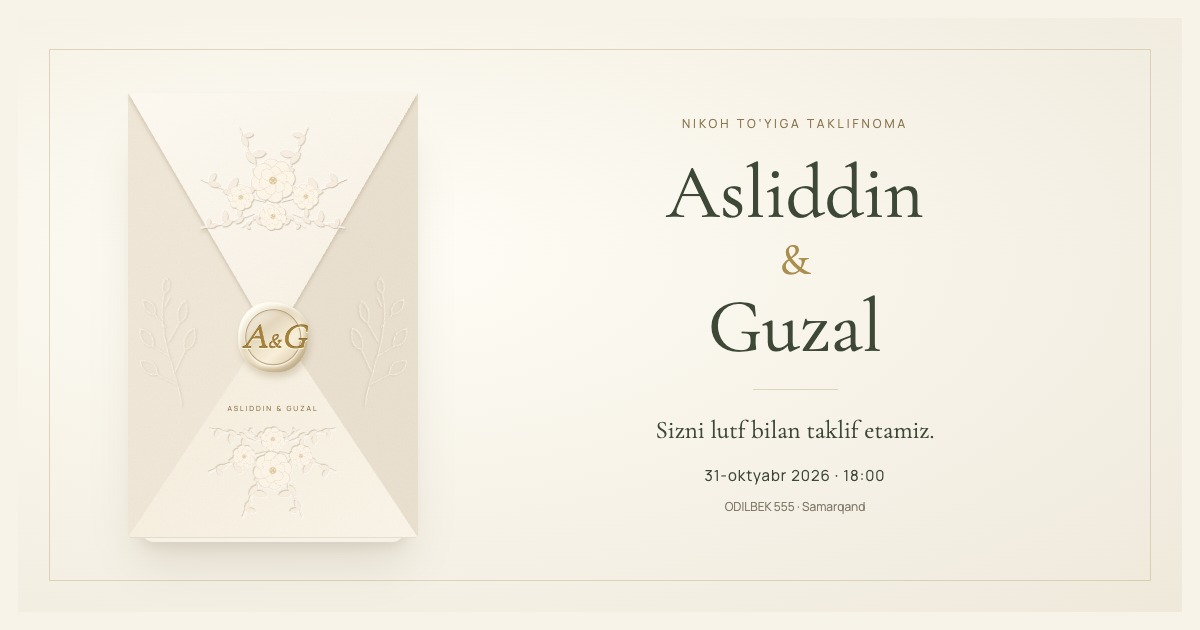
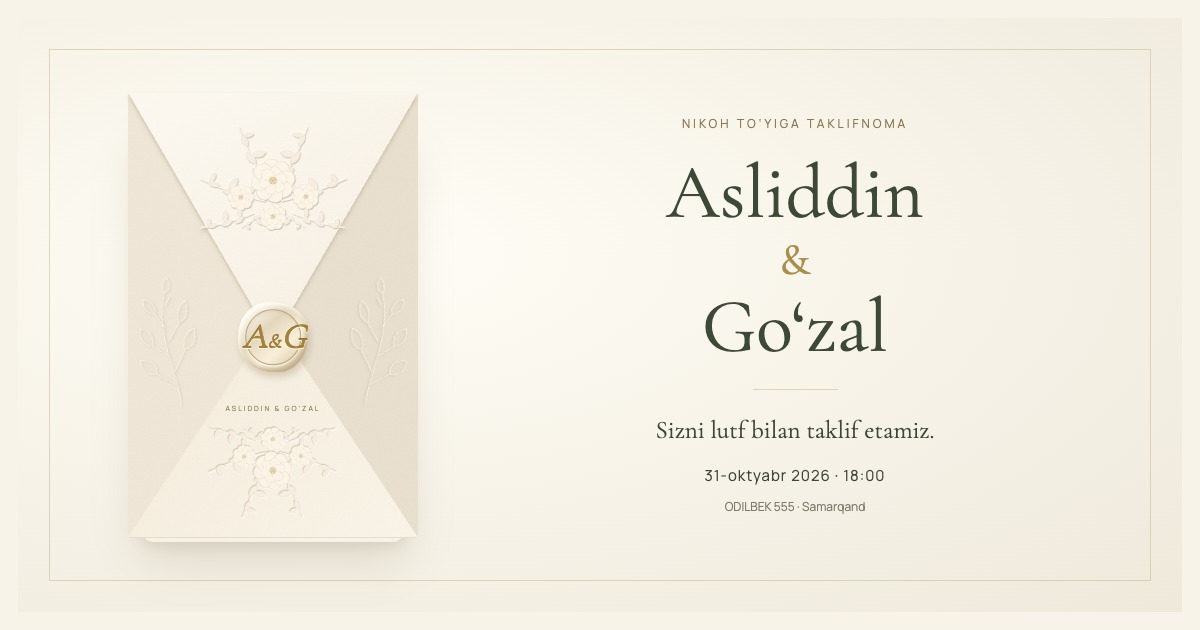
name fixed

Changed region(s): [[0.5858, 0.4524, 0.74, 0.573], [0.185, 0.6333, 0.2467, 0.6635]]

diff --git a/templates/invitation/home.html b/templates/invitation/home.html
@@ -5,21 +5,21 @@
   <meta charset="utf-8">
   <meta name="viewport" content="width=device-width, initial-scale=1">
   <meta name="theme-color" content="#f7f4ec">
-  <title>Asliddin & Guzal — Nikoh to‘yiga taklifnoma</title>
-  <meta name="description" content="Asliddin va Guzalning nikoh to‘yiga lutfan taklif etamiz. 31-oktyabr 2026, soat 18:00. ODILBEK 555 to‘yxonasi, Mirbozor, Samarqand.">
-  <meta property="og:title" content="Asliddin & Guzal — Nikoh to‘yiga taklifnoma">
+  <title>Asliddin & Go‘zal — Nikoh to‘yiga taklifnoma</title>
+  <meta name="description" content="Asliddin va Go‘zalning nikoh to‘yiga lutfan taklif etamiz. 31-oktyabr 2026, soat 18:00. ODILBEK 555 to‘yxonasi, Mirbozor, Samarqand.">
+  <meta property="og:title" content="Asliddin & Go‘zal — Nikoh to‘yiga taklifnoma">
   <meta property="og:description" content="Sizni nikoh to‘yimizga lutf bilan taklif etamiz. 31-oktyabr 2026 · 18:00. ODILBEK 555, Samarqand.">
   <meta property="og:type" content="website">
-  <meta property="og:site_name" content="Asliddin & Guzal · 31.10.2026">
+  <meta property="og:site_name" content="Asliddin & Go‘zal · 31.10.2026">
   <meta property="og:locale" content="uz_UZ">
   <meta property="og:url" content="{{ share_url }}">
   <meta property="og:image" content="{{ share_image_url }}">
   <meta property="og:image:type" content="image/jpeg">
   <meta property="og:image:width" content="1200">
   <meta property="og:image:height" content="630">
-  <meta property="og:image:alt" content="Gulli konvert va A&G muhri. Asliddin va Guzalning nikoh to‘yi — 31-oktyabr 2026, soat 18:00.">
+  <meta property="og:image:alt" content="Gulli konvert va A&G muhri. Asliddin va Go‘zalning nikoh to‘yi — 31-oktyabr 2026, soat 18:00.">
   <meta name="twitter:card" content="summary_large_image">
-  <meta name="twitter:title" content="Asliddin & Guzal — Nikoh to‘yiga taklifnoma">
+  <meta name="twitter:title" content="Asliddin & Go‘zal — Nikoh to‘yiga taklifnoma">
   <meta name="twitter:description" content="Sizni lutf bilan taklif etamiz. 31-oktyabr 2026 · 18:00 · ODILBEK 555, Samarqand.">
   <meta name="twitter:image" content="{{ share_image_url }}">
   <link rel="canonical" href="{{ share_url }}">
@@ -35,7 +35,7 @@
   <a class="skip-link" href="#asosiy">Asosiy mazmunga o‘tish</a>
   <div class="reading-progress" aria-hidden="true"></div>
   <header class="site-header">
-    <a class="monogram" href="#asosiy" aria-label="Asliddin va Guzal, bosh sahifa">A<span>&</span>G</a>
+    <a class="monogram" href="#asosiy" aria-label="Asliddin va Go‘zal, bosh sahifa">A<span>&</span>G</a>
     <nav aria-label="Sahifa bo‘limlari">
       <a href="#taklif">Taklifnoma</a><a href="#duo">Ezgu duo</a><a href="#manzil">Manzil</a>
     </nav>
@@ -50,7 +50,7 @@
         <div class="hero-content">
           <p class="bismillah" lang="ar" dir="rtl">بِسْمِ اللَّهِ الرَّحْمَٰنِ الرَّحِيمِ</p>
           <p class="eyebrow">ALLOHNING NOMI BILAN</p>
-          <h1 id="couple-names">Asliddin<span class="name-and">&</span>Guzal</h1>
+          <h1 id="couple-names">Asliddin<span class="name-and">&</span>Go‘zal</h1>
           <div class="hero-rule" aria-hidden="true"><span></span><svg class="icon"><use href="#icon-star"/></svg><span></span></div>
           <p class="hero-subtitle">NIKOH TO‘YIGA TAKLIFNOMA</p>
           <a class="hero-date" href="#sana">31 . 10 . 2026</a>
@@ -79,7 +79,7 @@
         <p>Allohning marhamati, ota-onalarimizning duolari bilan yangi hayot sari qadam qo‘ymoqdamiz.</p>
         <p>Sizni va oila a’zolaringizni nikoh to‘yimiz munosabati bilan yoziladigan dasturxonimizga lutfan taklif etamiz. Ushbu saodatli kunimizda aziz mehmonimiz bo‘lib, quvonchimizga sherik bo‘lishingizni istaymiz.</p>
         <p class="invitation-closing">Tashrifingiz — biz uchun ehtirom,<br>duolaringiz — eng go‘zal tuhfa.</p>
-        <div class="signature">Asliddin <span>&</span> Guzal</div>
+        <div class="signature">Asliddin <span>&</span> Go‘zal</div>
         <p class="eyebrow family-label">VA ULARNING OILALARI</p>
       </div>
     </section>
@@ -157,7 +157,7 @@
   <footer class="site-footer centered">
     <svg class="icon footer-star" aria-hidden="true"><use href="#icon-star"/></svg>
     <p class="footer-message">Yaxshi kunlar, yaxshi insonlar bilan.</p>
-    <a class="footer-names" href="#asosiy">Asliddin <em>&</em> Guzal</a>
+    <a class="footer-names" href="#asosiy">Asliddin <em>&</em> Go‘zal</a>
     <p class="eyebrow">31 OKTYABR 2026 · SAMARQAND</p>
     <p class="footer-dua">Alloh xayrli va barakali qilsin. Omin.</p>
     <button id="replay-invitation" class="replay-invitation" type="button" hidden>Konvertni qayta ochish</button>
@@ -167,12 +167,12 @@
   <button id="music-toggle" class="music-toggle" type="button" aria-label="Musiqani yoqish" aria-pressed="false" hidden><svg class="icon" aria-hidden="true"><use id="sound-icon" href="#icon-muted"/></svg></button>
   <div id="audio-status" class="sr-only" role="status"></div>
 
-  <dialog id="welcome" class="welcome-dialog envelope-intro" aria-label="Asliddin va Guzalning nikoh to‘yiga taklifnomasi" aria-describedby="welcome-description">
+  <dialog id="welcome" class="welcome-dialog envelope-intro" aria-label="Asliddin va Go‘zalning nikoh to‘yiga taklifnomasi" aria-describedby="welcome-description">
     <div class="envelope-layout">
       <div class="envelope-heading">
         <p class="eyebrow">SIZ UCHUN, MEHR BILAN</p>
       </div>
-      <button id="open-invitation" class="envelope-trigger" type="button" aria-label="Asliddin va Guzalning taklifnoma konvertini ochish" aria-describedby="welcome-description">
+      <button id="open-invitation" class="envelope-trigger" type="button" aria-label="Asliddin va Go‘zalning taklifnoma konvertini ochish" aria-describedby="welcome-description">
         <span class="envelope-shadow" aria-hidden="true"></span>
         <span class="envelope-back" aria-hidden="true"></span>
         <span class="envelope-glow" aria-hidden="true"></span>
@@ -180,7 +180,7 @@
           <span class="letter-border"></span>
           <span class="letter-bismillah" lang="ar" dir="rtl">بِسْمِ اللَّهِ الرَّحْمَٰنِ الرَّحِيمِ</span>
           <span class="letter-eyebrow">NIKOH TO‘YIGA TAKLIFNOMA</span>
-          <span class="letter-names">Asliddin<span>&</span>Guzal</span>
+          <span class="letter-names">Asliddin<span>&</span>Go‘zal</span>
           <span class="letter-date">31 · 10 · 2026</span>
           <span class="letter-invite">Sizni lutf bilan taklif etamiz.</span>
         </span>
@@ -192,7 +192,7 @@
         <img class="envelope-flowers-bottom" src="{% static 'invitation/images/envelope-florals.svg' %}" alt="" aria-hidden="true" width="320" height="210">
         <span class="envelope-flap" aria-hidden="true"><span class="envelope-flap-paper"></span><img class="envelope-flowers-top" src="{% static 'invitation/images/envelope-florals.svg' %}" alt="" width="320" height="210"></span>
         <span class="envelope-seal" aria-hidden="true"><span class="seal-initials">A<em>&</em>G</span></span>
-        <span class="envelope-inscription" aria-hidden="true">ASLIDDIN & GUZAL</span>
+        <span class="envelope-inscription" aria-hidden="true">ASLIDDIN & GO‘ZAL</span>
       </button>
       <div class="envelope-controls">
         <p id="welcome-description" class="envelope-hint"><span aria-hidden="true">⌃</span>Ochish uchun konvert ustiga bosing</p>

diff --git a/static/invitation/envelope.css b/static/invitation/envelope.css
@@ -1,4 +1,6 @@
 /* A layered paper envelope: seal → flap → letter → page. */
+/* The heading receives focus after opening, but is not an interactive control. */
+#couple-names:focus { outline: none; }
 .music-toggle { width: 48px; height: 48px; min-height: 48px; padding: 0; border-radius: 50%; display: grid; place-items: center; }
 .welcome-dialog.envelope-intro {
   width: 100%; max-width: none; height: 100%; height: 100dvh;

diff --git a/invitation/views.py b/invitation/views.py
@@ -36,17 +36,17 @@ def home(request):
 def calendar_event(request):
     # RFC 5545: fold UTF-8 lines at 75 octets, never splitting a code point.
     lines = [
-        "BEGIN:VCALENDAR", "VERSION:2.0", "PRODID:-//Asliddin Guzal//Wedding//UZ",
+        "BEGIN:VCALENDAR", "VERSION:2.0", "PRODID:-//Asliddin Go‘zal//Wedding//UZ",
         "CALSCALE:GREGORIAN", "METHOD:PUBLISH", "BEGIN:VEVENT",
         "UID:asliddin-guzal-20261031@wedding.local",
         "DTSTAMP:" + timezone.now().strftime("%Y%m%dT%H%M%SZ"),
         "DTSTART:20261031T130000Z",
-        "SUMMARY:Asliddin va Guzal — nikoh to‘yi",
+        "SUMMARY:Asliddin va Go‘zal — nikoh to‘yi",
         "LOCATION:ODILBEK 555 to‘yxonasi\\, Mirbozor\\, Samarqand viloyati",
         "DESCRIPTION:Sizni nikoh to‘yimizga lutfan taklif etamiz.\\nManzil: " + MAP_URL,
         "URL:" + MAP_URL,
         "BEGIN:VALARM", "TRIGGER:-P1D", "ACTION:DISPLAY",
-        "DESCRIPTION:Ertaga Asliddin va Guzalning nikoh to‘yi", "END:VALARM",
+        "DESCRIPTION:Ertaga Asliddin va Go‘zalning nikoh to‘yi", "END:VALARM",
         "END:VEVENT", "END:VCALENDAR",
     ]
     folded = []
@@ -59,5 +59,5 @@ def calendar_event(request):
             part += char
         folded.append(part)
     result = HttpResponse("\r\n".join(folded) + "\r\n", content_type="text/calendar; charset=utf-8")
-    result["Content-Disposition"] = 'attachment; filename="Asliddin-Guzal.ics"'
+    result["Content-Disposition"] = 'attachment; filename="Asliddin-Gozal.ics"'
     return result

diff --git a/invitation/tests.py b/invitation/tests.py
@@ -25,7 +25,7 @@ class InvitationTests(TestCase):
     def test_invitation_contains_correct_event_and_venue(self):
         response = self.client.get(reverse("home"))
         self.assertContains(response, "Asliddin")
-        self.assertContains(response, "Guzal")
+        self.assertContains(response, "Go‘zal")
         self.assertContains(response, '2026-10-31T18:00:00+05:00')
         self.assertContains(response, "ODILBEK 555")
         self.assertContains(response, "https://maps.app.goo.gl/s7fCjrmRfJhqSfjN9?g_st=atm")

diff --git a/invitation/admin.py b/invitation/admin.py
@@ -10,6 +10,6 @@ class GuestResponseAdmin(admin.ModelAdmin):
     readonly_fields = ("created_at", "updated_at")
 
 
-admin.site.site_header = "Asliddin & Guzal · Mehmonlar"
+admin.site.site_header = "Asliddin & Go‘zal · Mehmonlar"
 admin.site.site_title = "Taklifnoma boshqaruvi"
 admin.site.index_title = "To‘yga tayyorgarlik"

diff --git a/README.md b/README.md
@@ -1,4 +1,4 @@
-# Asliddin & Guzal · Nikoh to‘yiga taklifnoma
+# Asliddin & Go‘zal · Nikoh to‘yiga taklifnoma
 
 Django 6, server-rendered HTML, CSS va vanilla JavaScript. 31-oktyabr 2026-yil,
 18:00, Asia/Tashkent. ODILBEK 555, Mirbozor, Samarqand viloyati.
